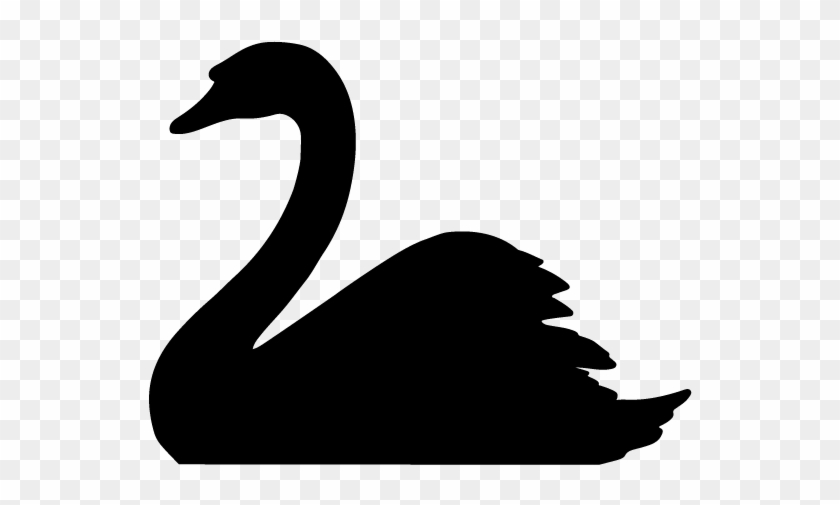
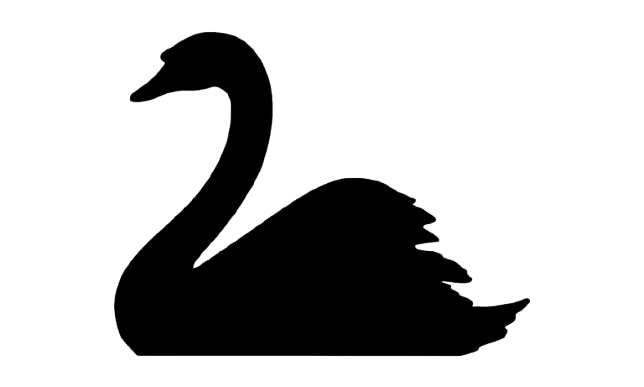
Changing swan

diff --git a/src/app/layout.tsx b/src/app/layout.tsx
@@ -76,8 +76,8 @@ export default function RootLayout({
         <ThemeProvider>
           <SiteHeader />
           {children}
-          <SwanScroll lightSrc="https://www.clipartmax.com/png/small/61-616136_black-swan-wallpaper-black-swan-transparent.png"
-                     darkSrc="/white-swan.png" size={72} />
+          <SwanScroll lightSrc="/black-swan.png"
+                     darkSrc="/white-swan.png" size={60} />
         </ThemeProvider>
       </body>
     </html>
